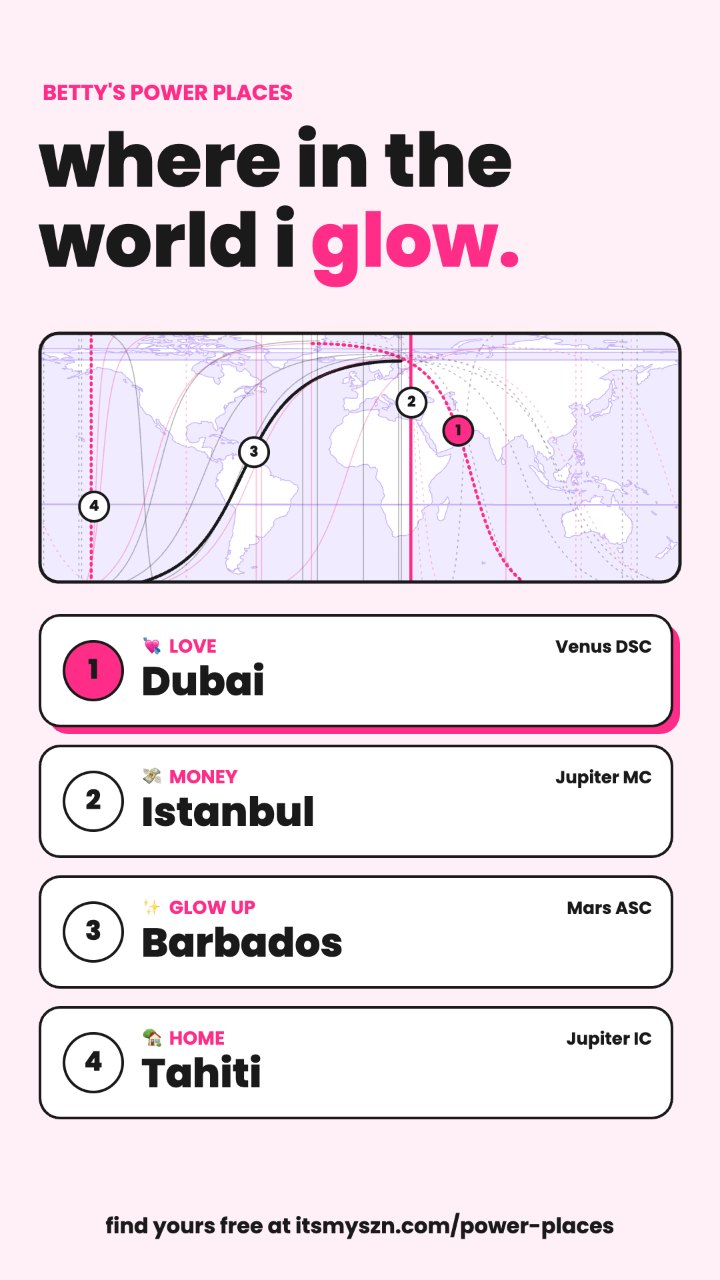
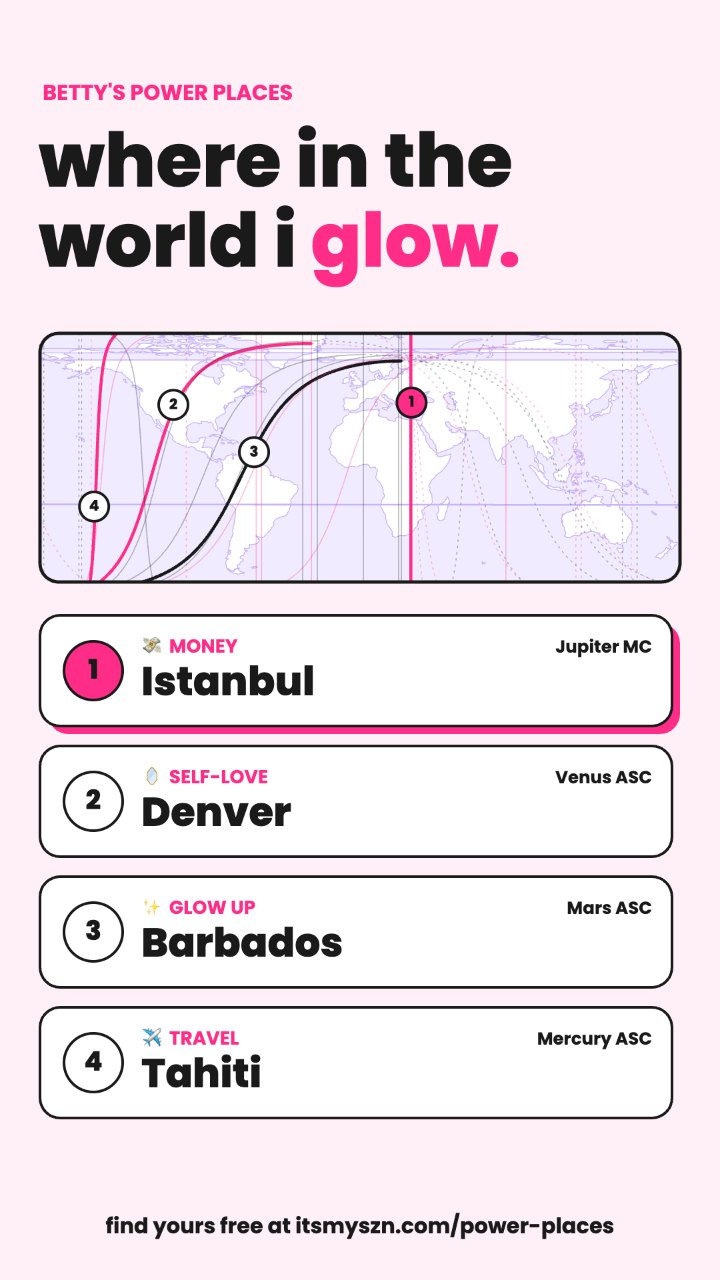
Coven home: Betty's card shows money, self-love, glow up, travel (no love row)

diff --git a/src/app/coven/page.tsx b/src/app/coven/page.tsx
@@ -200,7 +200,7 @@ export default function CovenHomePage() {
           <div style={{ justifySelf: "center", position: "relative", width: "100%", maxWidth: 270, transform: "rotate(2.5deg)" }}>
             {/* Betty's own power places card, from her chart, as the preview of what every member gets */}
             {/* eslint-disable-next-line @next/next/no-img-element */}
-            <img src="/coven/power-places-preview.jpg" alt="Betty's power places card: Dubai for love, Istanbul for money, Barbados for a glow up, Tahiti for home" width={720} height={1280} className="block w-full h-auto" style={{ borderRadius: 22, border: "var(--border)", boxShadow: "6px 6px 0 var(--dark)" }} />
+            <img src="/coven/power-places-preview.jpg" alt="Betty's power places card: Istanbul for money, Denver for self-love, Barbados for a glow up, Tahiti for travel" width={720} height={1280} className="block w-full h-auto" style={{ borderRadius: 22, border: "var(--border)", boxShadow: "6px 6px 0 var(--dark)" }} />
             <span style={{ position: "absolute", left: -10, top: 18, transform: "rotate(-7deg)", background: "var(--dark)", color: "#fff", fontFamily: pp, fontSize: 12, fontWeight: 800, letterSpacing: "0.1em", textTransform: "uppercase", padding: "6px 12px", borderRadius: 999 }}>betty&apos;s map 💅</span>
           </div>
         </Link>
